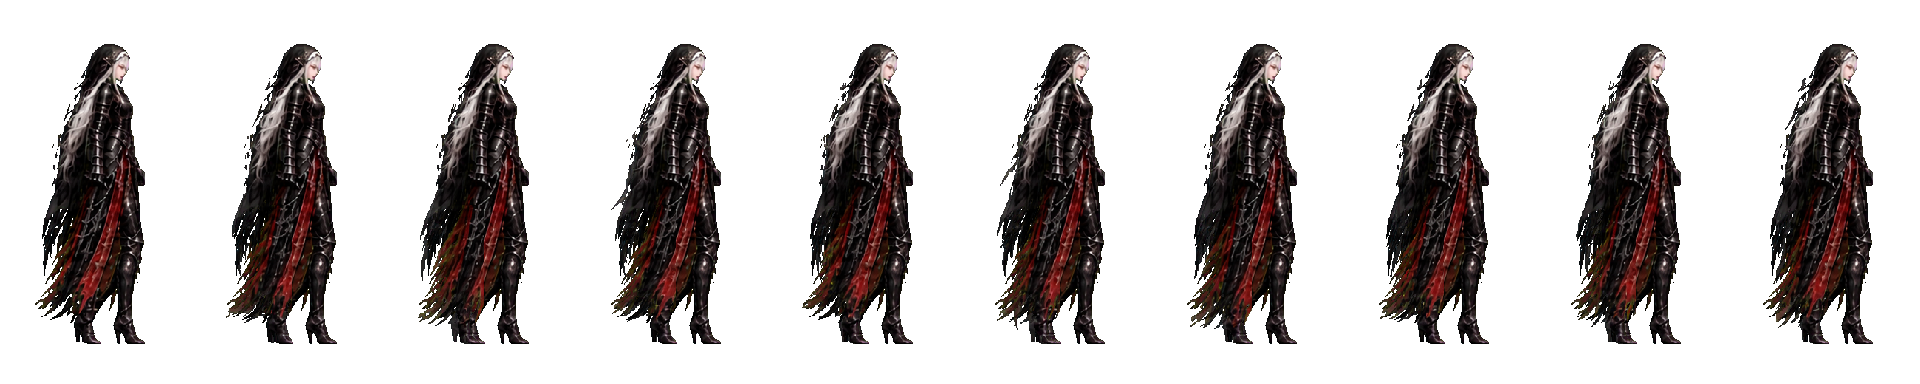
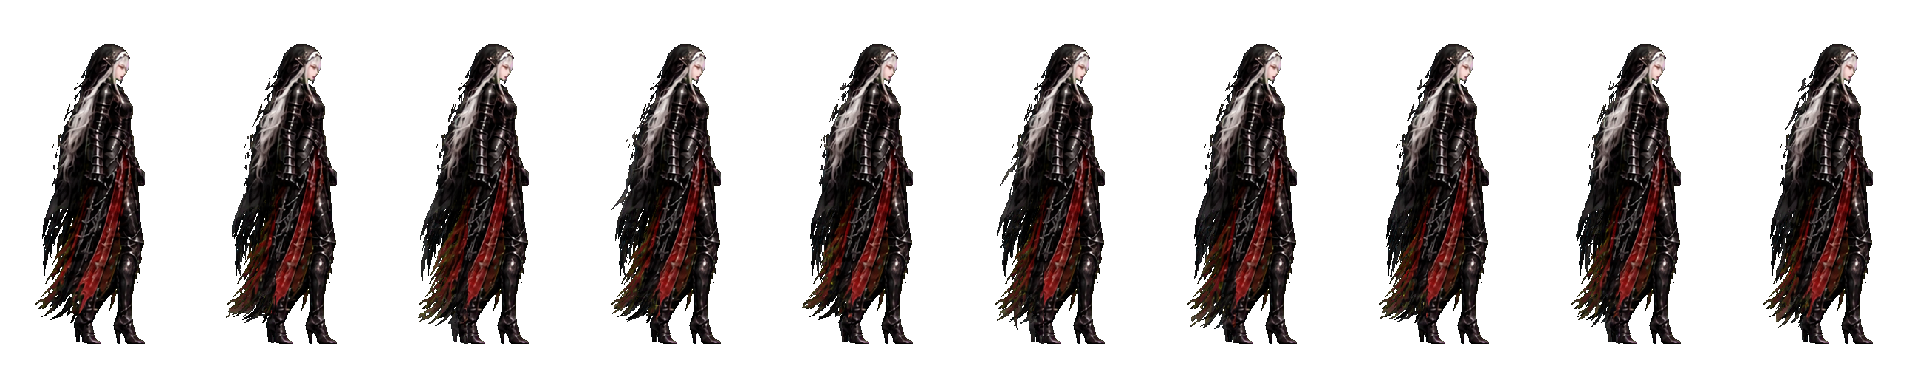
fix: stabilize idle planted legs

diff --git a/tools/stabilizePlayerIdleSheet.py b/tools/stabilizePlayerIdleSheet.py
@@ -1,0 +1,45 @@
+from __future__ import annotations
+
+import sys
+from pathlib import Path
+
+from generatePlayerActionSheets import decode_png, encode_png
+
+
+FRAME_WIDTH = 192
+FRAME_HEIGHT = 384
+FRAME_COUNT = 10
+IDLE_SHEET = Path("assets/player-idle-sheet-10.png")
+
+STABLE_PLANTED_BODY = {
+    "x0": 84,
+    "x1": 145,
+    "y0": 178,
+    "y1": 346,
+}
+
+
+def main() -> None:
+    width, height, pixels = decode_png(IDLE_SHEET.read_bytes())
+    expected_width = FRAME_WIDTH * FRAME_COUNT
+    if width != expected_width or height != FRAME_HEIGHT:
+        raise ValueError(f"{IDLE_SHEET} must be {expected_width}x{FRAME_HEIGHT}, got {width}x{height}")
+
+    for frame in range(1, FRAME_COUNT):
+        stabilize_planted_body(pixels, width, frame)
+
+    IDLE_SHEET.write_bytes(encode_png(width, height, pixels))
+
+
+def stabilize_planted_body(pixels: bytearray, sheet_width: int, frame: int) -> None:
+    source_x0 = 0
+    target_x0 = frame * FRAME_WIDTH
+    for y in range(STABLE_PLANTED_BODY["y0"], STABLE_PLANTED_BODY["y1"]):
+        for x in range(STABLE_PLANTED_BODY["x0"], STABLE_PLANTED_BODY["x1"]):
+            source = (y * sheet_width + source_x0 + x) * 4
+            target = (y * sheet_width + target_x0 + x) * 4
+            pixels[target : target + 4] = pixels[source : source + 4]
+
+
+if __name__ == "__main__":
+    sys.exit(main())
